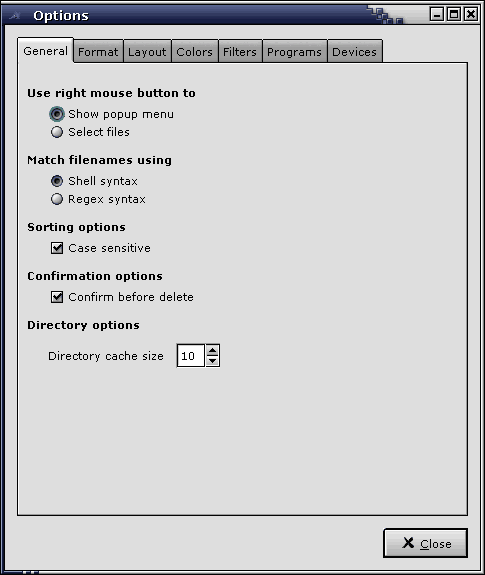
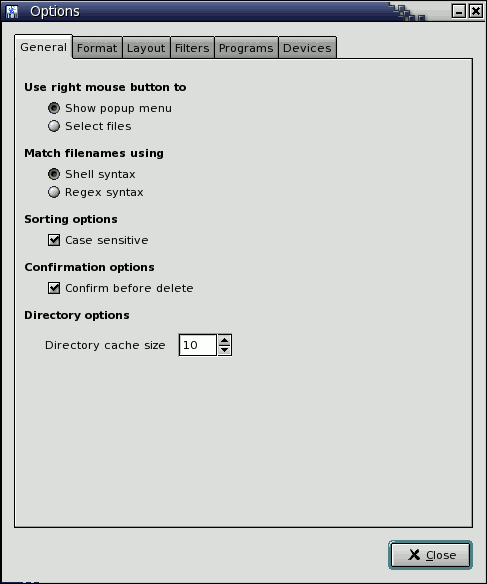
Updated option slideshow

Changed region(s): [[0.0, 0.0, 1.0, 1.0]]

diff --git a/opt_show.html b/opt_show.html
@@ -40,25 +40,23 @@ div img {margin-left:4%; border:0;}
 
 <div id="cont" class="stil">
 <h2>Options slideshow</h2> 
-<p>This is a kind of slideshow of the GNOME Commander options (from v-1.1.3), click on the option tabs like you would 
+<p>This is a kind of slideshow of the GNOME Commander options (shots from v1.173), click on the option tabs like you would 
 do in the program itself (requires javascript).</p>
 <map name="kartan" id="kartan">  
-<area shape="rect" coords="10,40,76,68" href="javascript:titta('general');" title="General" alt="">  
-<area shape="rect" coords="77,40,126,68" href="javascript:titta('pres');" title="Data" alt="">  
-<area shape="rect" coords="127,40,176,68" href="javascript:titta('layo');" title="Layout" alt="">  
-<area shape="rect" coords="177,40,222,68" href="javascript:titta('color');" title="Colors" alt="">  
-<area shape="rect" coords="223,40,266,68" href="javascript:titta('filt');" title="Filters" alt="">  
-<area shape="rect" coords="267,40,332,68" href="javascript:titta('prog');" title="Programs" alt="">  
-<area shape="rect" coords="333,40,384,68" href="javascript:titta('devi');" title="Devices" alt="">  
+<area shape="rect" coords="15,38,75,64" href="javascript:titta('general');" title="General" alt="">  
+<area shape="rect" coords="76,38,126,64" href="javascript:titta('pres');" title="Data" alt="">  
+<area shape="rect" coords="127,38,174,64" href="javascript:titta('layo');" title="Layout" alt="">  
+<area shape="rect" coords="175,38,218,64" href="javascript:titta('filt');" title="Filters" alt="">  
+<area shape="rect" coords="219,38,281,64" href="javascript:titta('prog');" title="Programs" alt="">  
+<area shape="rect" coords="282,38,339,64" href="javascript:titta('devi');" title="Devices" alt="">  
 </map>  
-<div id="general" class="karta"><img src="ss/opt_general.png" width="485" height="575" class="opt" alt=""></div>
-<div id="pres" class="karta"><img src="ss/opt_data.png" width="485" height="575" class="opt" alt=""></div>
-<div id="layo" class="karta"><img src="ss/opt_layout.png" width="485" height="575" class="opt" alt=""></div>
-<div id="color" class="karta"><img src="ss/opt_color.png" width="485" height="575" class="opt" alt=""></div>
-<div id="filt" class="karta"><img src="ss/opt_filter.png" width="485" height="575" class="opt" alt=""></div>
-<div id="prog" class="karta"><img src="ss/opt_prog.png" width="485" height="575" class="opt" alt=""></div>
-<div id="devi" class="karta"><img src="ss/opt_dev.png" width="485" height="575" class="opt" alt=""></div>
-<div class="karta"><img src="img/dot.png" width="485" height="68" usemap="#kartan" alt=""></div>
+<div id="general" class="karta"><img src="ss/opt_general.png" width="487" height="584" class="opt" alt=""></div>
+<div id="pres" class="karta"><img src="ss/opt_data.png" width="487" height="584" class="opt" alt=""></div>
+<div id="layo" class="karta"><img src="ss/opt_layout.png" width="487" height="584" class="opt" alt=""></div>
+<div id="filt" class="karta"><img src="ss/opt_filter.png" width="487" height="584" class="opt" alt=""></div>
+<div id="prog" class="karta"><img src="ss/opt_prog.png" width="487" height="584" class="opt" alt=""></div>
+<div id="devi" class="karta"><img src="ss/opt_dev.png" width="487" height="584" class="opt" alt=""></div>
+<div class="karta"><img src="img/dot.png" width="487" height="68" usemap="#kartan" alt=""></div>
 <img src="img/dot.png" width="2" height="700" alt="">
 
 </div>

diff --git a/script.js b/script.js
@@ -12,7 +12,6 @@ function titta(lager){
 eval(dl + "('general')" + vi + bort);
 eval(dl + "('pres')" + vi + bort);
 eval(dl + "('layo')" + vi + bort);
-eval(dl + "('color')" + vi + bort);
 eval(dl + "('filt')" + vi + bort);
 eval(dl + "('prog')" + vi + bort);
 eval(dl + "('devi')" + vi + bort);
